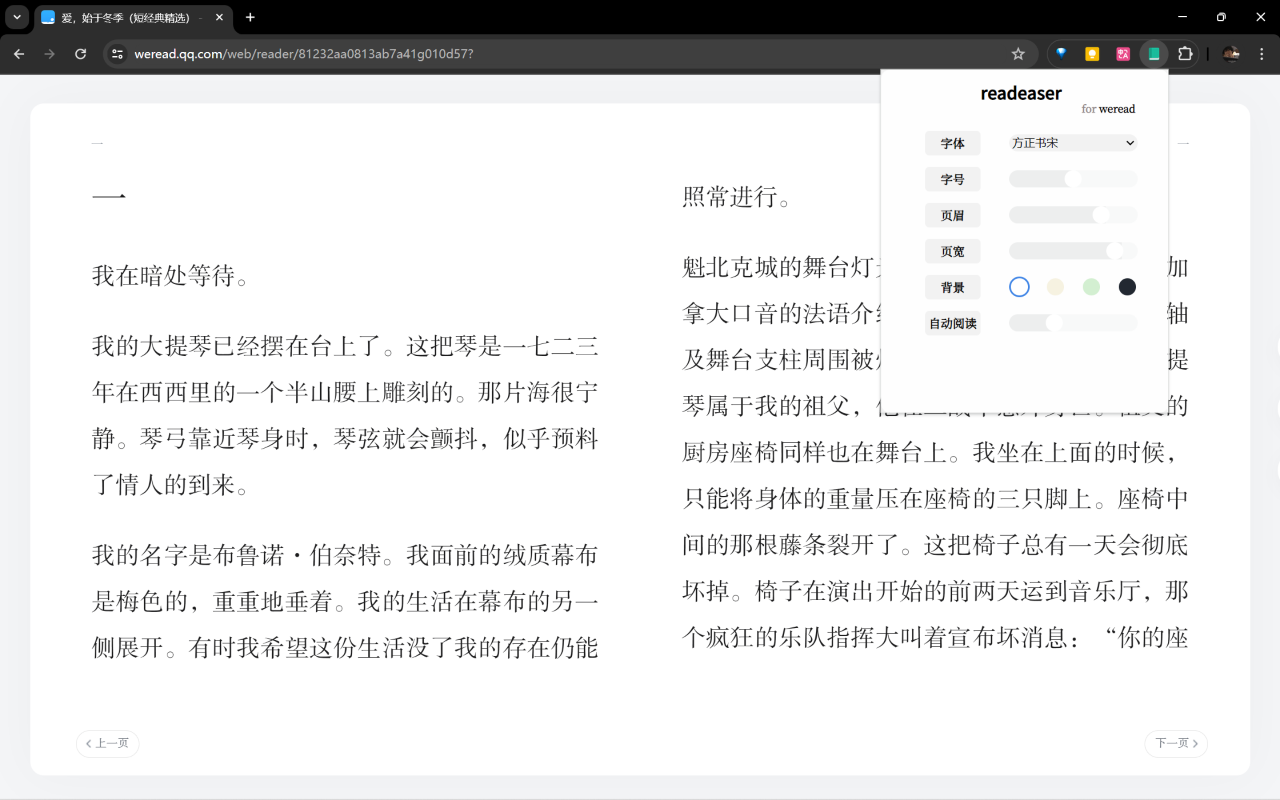
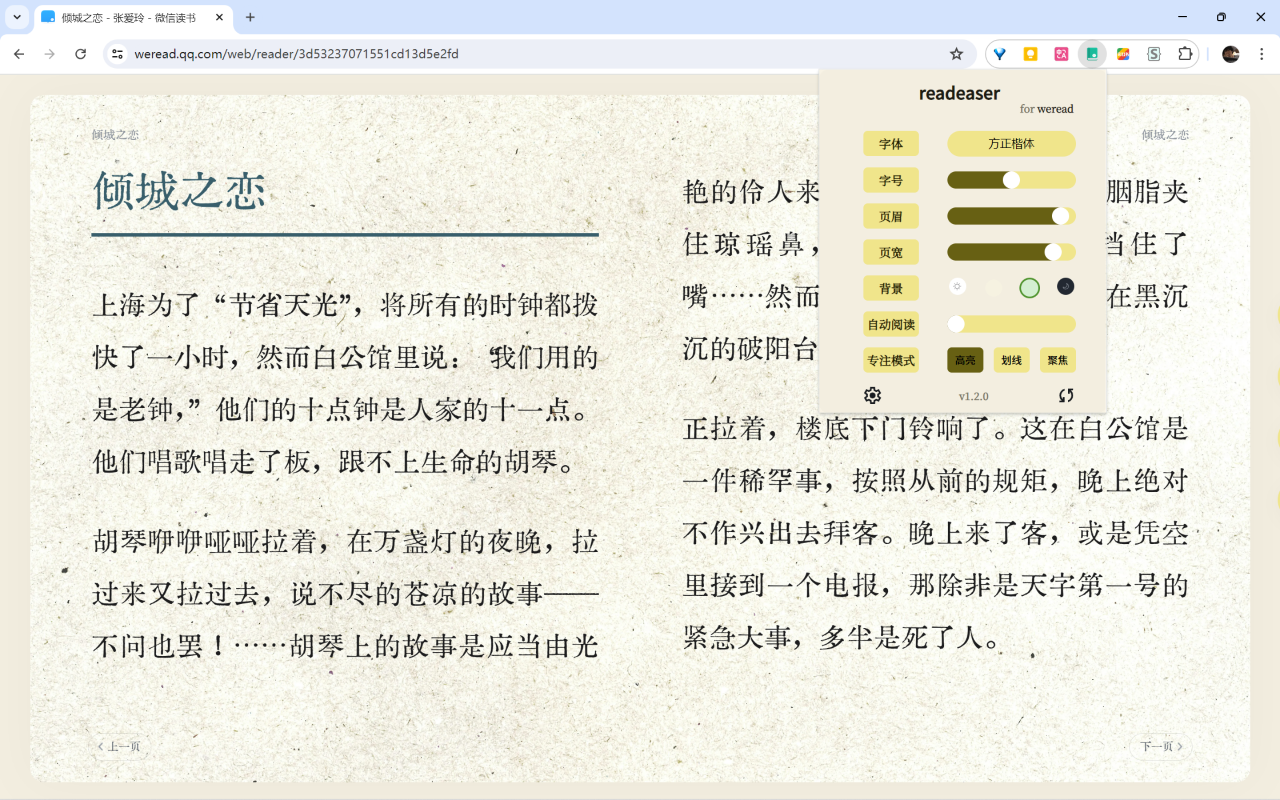
update readme

diff --git a/readme.md b/readme.md
@@ -2,9 +2,12 @@
 
 微信读书网页版美化
 
-美化微信读书网页版，支持最新**双栏模式**
+美化微信读书网页版，支持**双栏模式**|**PDF 阅读器**
 
 ## 功能
+
+v1.2.0：
+增加选项页面，可自定义字体背景颜色，自由打造自己喜欢的阅读界面
 
 - 内置 8 种字体，自由选择阅读姿势
 - 参考微信读书移动端主题，四种颜色主题可切换
@@ -34,6 +37,8 @@
 <img src=".\image\promo\字号页宽ms.png" style="zoom:80%;" />
 
 <img src=".\image\promo\focus10.png" style="zoom:80%;" />
+
+<img src=".\image\promo\选项ms.png" style="zoom:80%;" />
 
 ## 下载
 
